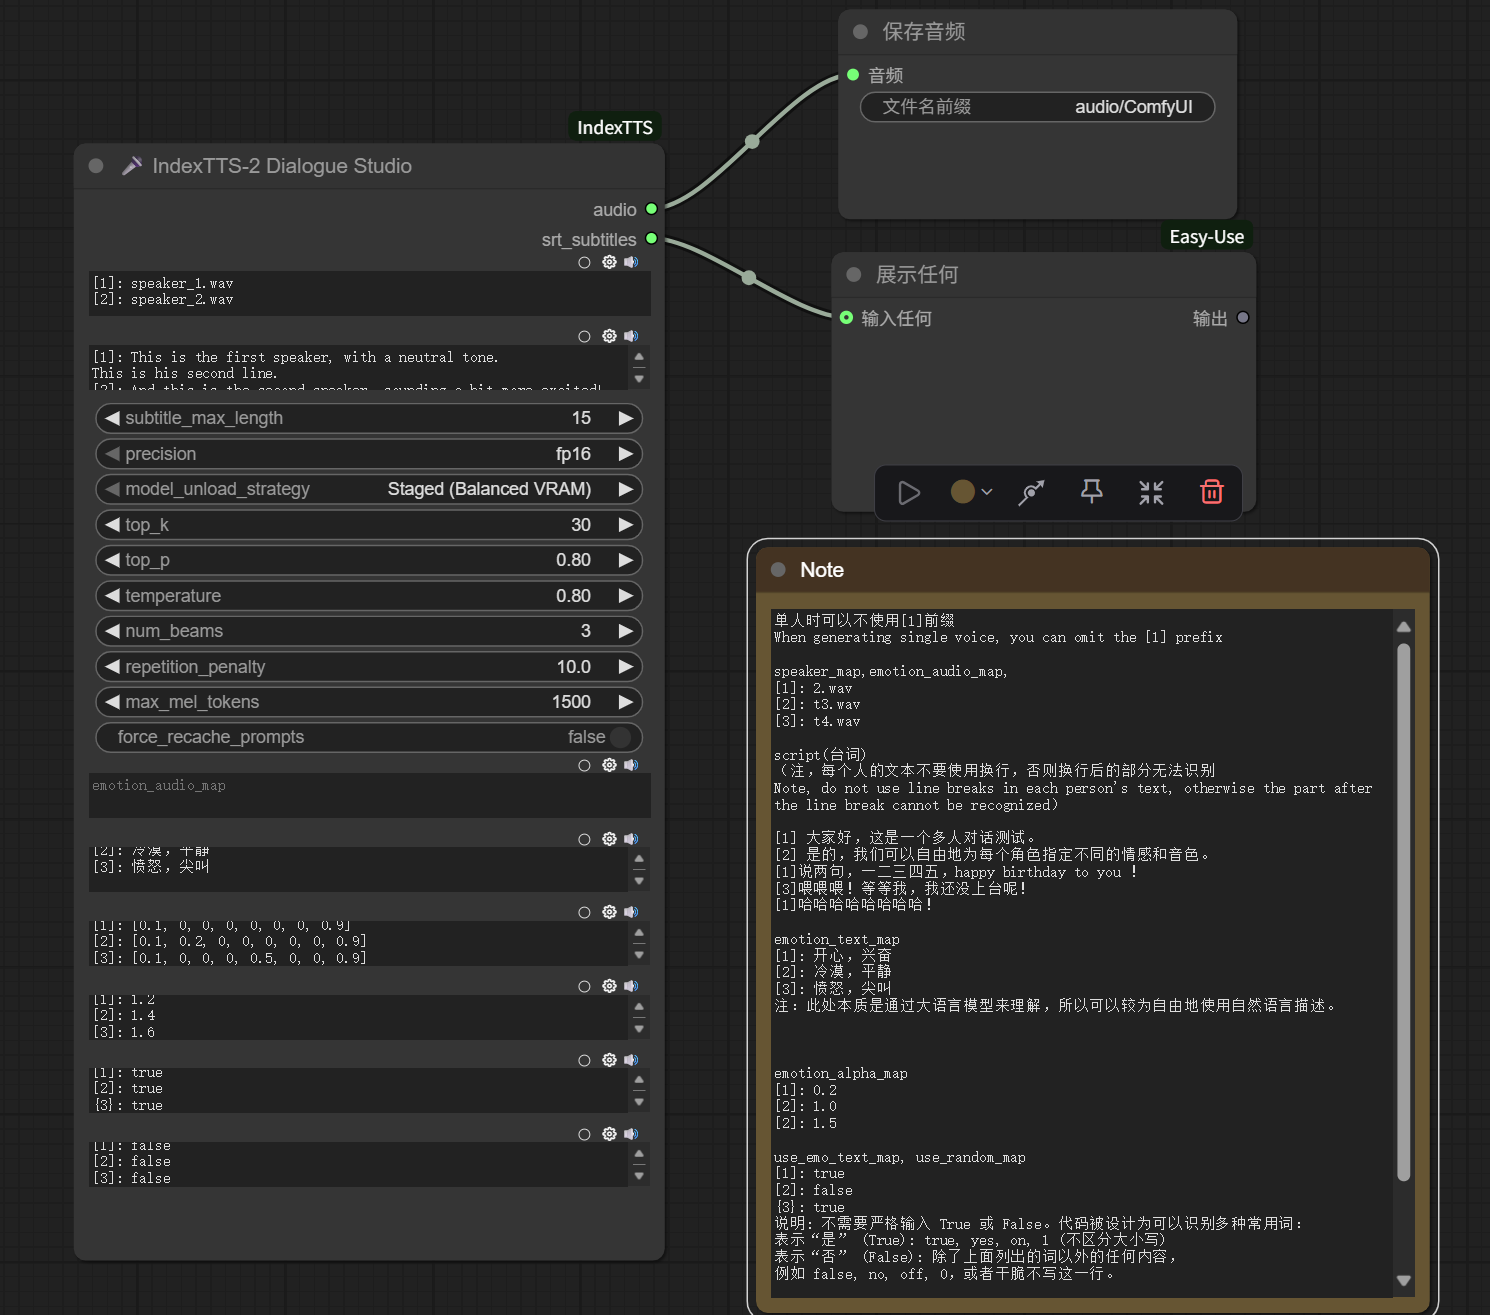
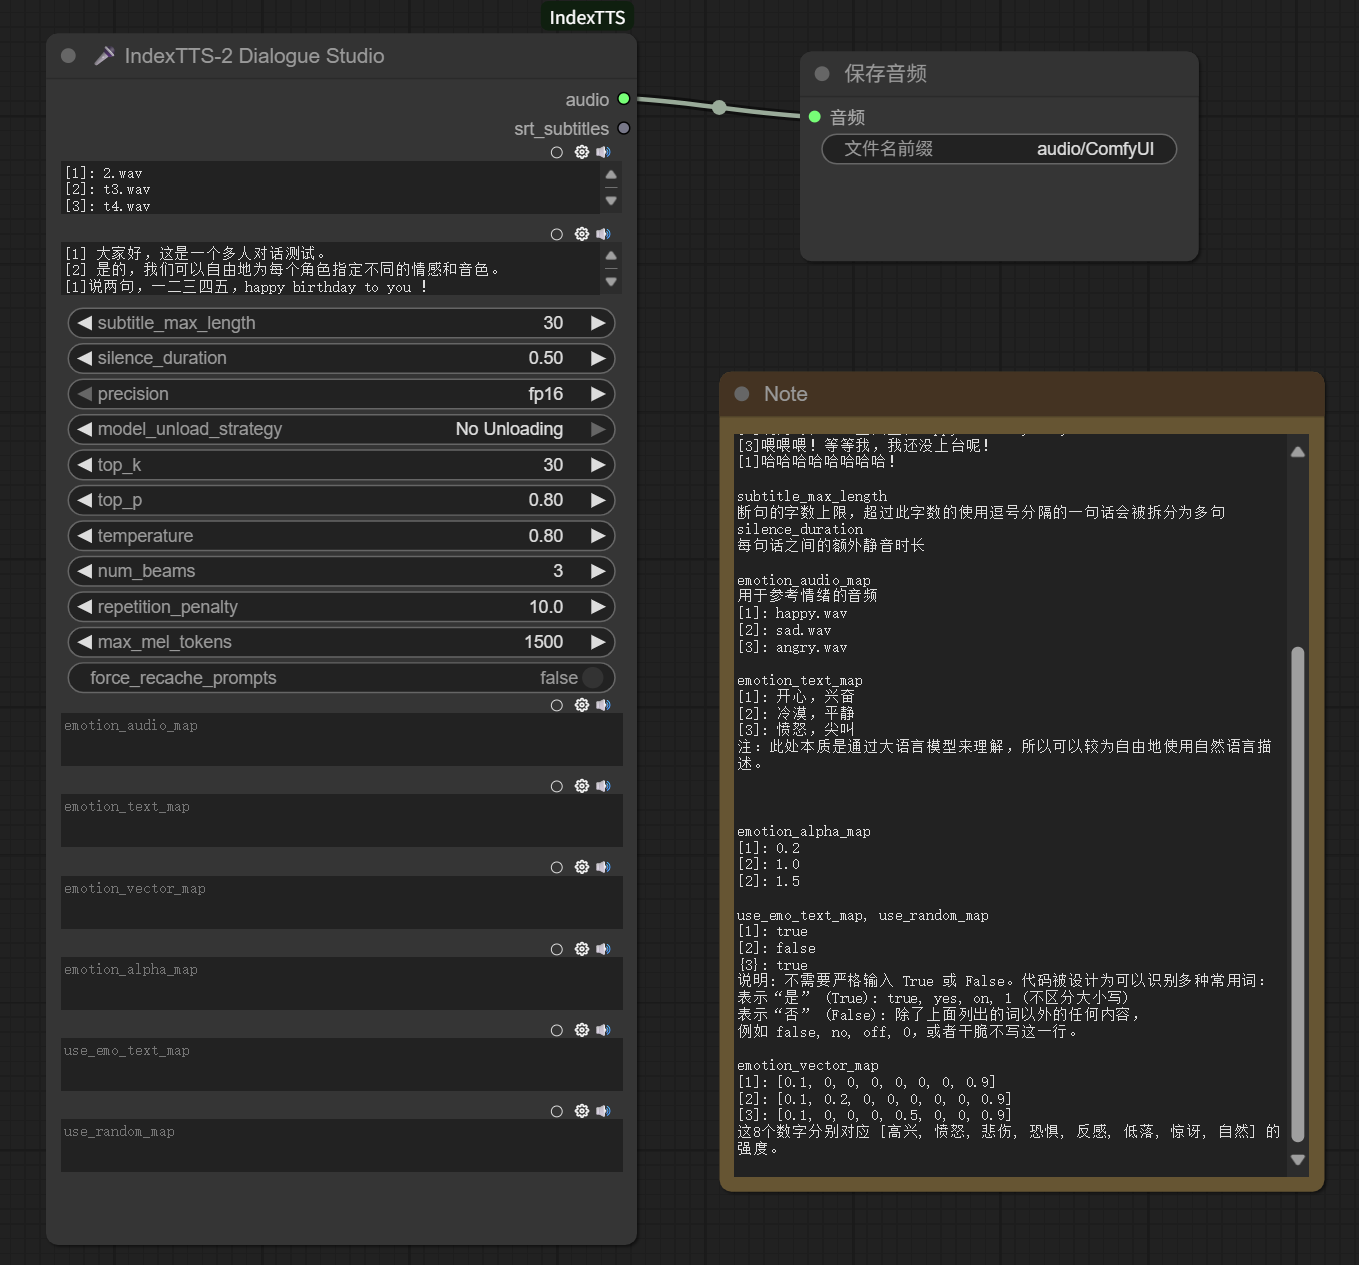
add silence duration

diff --git a/nodes.py b/nodes.py
@@ -15,16 +15,23 @@ class IndexTTS2_Dialogue_Studio:
         return {
             "required": {
                 "speaker_map": ("STRING", {
-                    "multiline": True, "default": "[1]: speaker_1.wav\n[2]: speaker_2.wav",
-                    "tooltip": "说话人映射表 (Speaker Map)\n将说话人ID映射到 `models/TTS/speakers/`中的音频文件 (Maps speaker IDs to audio files in `models/TTS/speakers/).\n格式 (Format): `[ID]: filename.wav` 每行一个 (one per line).\n单人生成时可省略 `[1]:` (For single speaker, `[1]:` is optional)."
+                    "multiline": True, "default": "[1]: speaker_1.wav",
+                    "tooltip": "说话人映射表 (Speaker Map)\n将说话人ID映射到 `models/TTS/speakers/`中的音频文件。(Maps speaker IDs to audio files in `models/TTS/speakers/`)."
                 }),
                 "script": ("STRING", {
-                    "multiline": True, "default": "[1]: This is the first speaker, with a neutral tone.\nThis is his second line.\n[2]: And this is the second speaker, sounding a bit more excited!",
-                    "tooltip": "对话脚本 (Script)\n支持单个角色多行文本，换行符会强制作为字幕切分点。(Multi-line text for a single speaker is supported. Newlines will force subtitle breaks.)\n格式 (Format): `[ID] Text content`"
+                    "multiline": True, "default": "[1]: This is a test sentence.\nThis is a second line for the same speaker.",
+                    "tooltip": "对话脚本 (Script)\n支持单个角色多行文本，换行符会强制作为字幕切分点。(Multi-line text for a single speaker is supported. Newlines will force subtitle breaks.)"
                 }),
                 "subtitle_max_length": ("INT", {
-                    "default": 15, "min": 5, "max": 100,
+                    "default": 30, "min": 5, "max": 100,
                     "tooltip": "字幕单行最大长度 (Subtitle Max Length)\n用于智能断句。中文字符计为1，英文单词计为1。(For smart splitting. A Chinese char counts as 1, an English word counts as 1.)"
+                }),
+                "silence_duration": ("FLOAT", {
+                    "default": 0.5, 
+                    "min": 0.0, 
+                    "max": 5.0, 
+                    "step": 0.05,
+                    "tooltip": "句间静音时长(秒)\n在每两段生成的音频之间插入指定时长的静音。(Silence duration in seconds between each generated audio clip.)"
                 }),
                 "precision": (["fp16", "fp32"], {"default": "fp16"}),
                 "model_unload_strategy": (["Staged (Balanced VRAM)", "Ultimate (Lowest VRAM)", "No Unloading"], {
@@ -39,7 +46,6 @@ class IndexTTS2_Dialogue_Studio:
                 "max_mel_tokens": ("INT", {"default": 1500, "min": 100}),
                 "force_recache_prompts": ("BOOLEAN", {"default": False}),
             },
-            # (Optional inputs remain the same)
             "optional": {
                 "emotion_audio_map": ("STRING", {"multiline": True, "default": ""}),
                 "emotion_text_map": ("STRING", {"multiline": True, "default": ""}),
@@ -55,7 +61,6 @@ class IndexTTS2_Dialogue_Studio:
     FUNCTION = "generate_dialogue"
     CATEGORY = "🎤MW/MW-IndexTTS"
 
-    # --- 辅助函数 (SRT字幕生成与智能断句) ---
     def _get_mixed_length(self, text):
         han_count = len(re.findall(r'[\u4e00-\u9fa5]', text))
         word_count = len(re.findall(r'\b[a-zA-Z]+\b', text))
@@ -79,36 +84,24 @@ class IndexTTS2_Dialogue_Studio:
 
     def _split_text_for_srt(self, text, max_len=15):
         if not text.strip(): return []
-        
         lines = text.split('\n')
         all_chunks = []
-
         for line in lines:
             if not line.strip(): continue
-            
-            # --- 修正后的合并逻辑 ---
-            # 目标：贪婪地合并短句，直到合并后的长句超过max_len，然后将这个完整的长句作为一个整体处理
             parts = re.split(r'([.?!。？！])', line)
             sentences = ["".join(i).strip() for i in zip(parts[0::2], parts[1::2])]
             if len(parts[0::2]) > len(parts[1::2]):
                 sentences.append(parts[-1].strip())
             sentences = [s for s in sentences if s]
-
             if not sentences: continue
-
             temp_chunk = sentences[0]
             for i in range(1, len(sentences)):
-                # 如果当前块加上下一个句子，总长度依然可接受，则合并
                 if self._get_mixed_length(temp_chunk + " " + sentences[i]) <= max_len:
                     temp_chunk += " " + sentences[i]
                 else:
-                    # 否则，处理当前已合并的块，然后用下一个句子开始新块
                     all_chunks.extend(self._split_long_sentence(temp_chunk, max_len))
                     temp_chunk = sentences[i]
-            
-            # 处理最后一个块
             all_chunks.extend(self._split_long_sentence(temp_chunk, max_len))
-
         return all_chunks
 
     def _format_srt_time(self, seconds):
@@ -127,31 +120,31 @@ class IndexTTS2_Dialogue_Studio:
             text = data['text']
             srt_content.append(f"{index}\n{start_time_str} --> {end_time_str}\n{text}\n")
         return "\n".join(srt_content)
-    
-    # --- 现有辅助函数 ---
+
     def _preprocess_input(self, text_input, is_script=False):
         text_input = text_input.strip()
         if not text_input: return ""
         if not is_script and re.search(r'^\s*\[\d+\]', text_input, re.MULTILINE): return text_input
         lines = text_input.split('\n')
-        # For script, we only add prefix if no prefix exists at all, to support multi-line
         if is_script and any(re.match(r'^\s*\[\d+\]', line) for line in lines):
              return text_input
         formatter = "[1] {}" if is_script else "[1]: {}"
         processed_lines = [formatter.format(line.strip()) for line in lines if line.strip()]
         return '\n'.join(processed_lines)
 
-    def get_emo_params_for_sid(self, sid, emo_maps):
-        # (This function remains the same)
-        params = {"emo_text": emo_maps["emotion_text_map"].get(sid), "emo_alpha": emo_maps["emotion_alpha_map"].get(sid, 1.0), "use_emo_text": emo_maps["use_emo_text_map"].get(sid, False), "use_random": emo_maps["use_random_map"].get(sid, False)}
-        if sid in emo_maps["emotion_audio_map"]: params["emo_audio_prompt_path"] = os.path.join(utils.speakers_dir, emo_maps["emotion_audio_map"][sid]) 
-        else: params["emo_audio_prompt_path"] = None
-        try: params["emo_vector"] = ast.literal_eval(emo_maps["emotion_vector_map"][sid]) if sid in emo_maps["emotion_vector_map"] else None
-        except: params["emo_vector"] = None
-        return params
+    def _check_all_prompts_cached(self, speaker_map_text):
+        speaker_map = utils.parse_key_value_map(speaker_map_text)
+        if not speaker_map: return True
+        for sid, filename in speaker_map.items():
+            cache_name = os.path.splitext(os.path.basename(filename))[0] + ".pkl"
+            cache_path = os.path.join(utils.TTS_CACHE_DIR, cache_name)
+            if not os.path.exists(cache_path):
+                print(f"    [DEBUG] Pre-check failed: Cache not found for '{filename}'.")
+                return False
+        print("    [DEBUG] Pre-check successful: All speaker prompts are cached.")
+        return True
 
     def _prepare_prompts(self, p, speaker_map_text, force_recache, skip_model_load=False):
-        # (This function remains the same)
         if not skip_model_load: p.load_prompt_models()
         speaker_map = utils.parse_key_value_map(speaker_map_text)
         if not speaker_map: raise ValueError("Speaker map is empty or invalid.")
@@ -168,15 +161,40 @@ class IndexTTS2_Dialogue_Studio:
             utils.save_cache(prompt_data, cache_path)
             prompts[sid] = prompt_data
         return prompts
-        
-    def generate_dialogue(self, speaker_map, script, subtitle_max_length, precision, model_unload_strategy, **kwargs):
+
+    def get_emo_params_for_sid(self, sid, emo_maps):
+        params = {"emo_text": emo_maps["emotion_text_map"].get(sid), "emo_alpha": emo_maps["emotion_alpha_map"].get(sid, 1.0), "use_emo_text": emo_maps["use_emo_text_map"].get(sid, False), "use_random": emo_maps["use_random_map"].get(sid, False)}
+        if sid in emo_maps["emotion_audio_map"]: params["emo_audio_prompt_path"] = os.path.join(utils.speakers_dir, emo_maps["emotion_audio_map"][sid]) 
+        else: params["emo_audio_prompt_path"] = None
+        try: params["emo_vector"] = ast.literal_eval(emo_maps["emotion_vector_map"][sid]) if sid in emo_maps["emotion_vector_map"] else None
+        except: params["emo_vector"] = None
+        return params
+
+    def _process_decoding_and_srt(self, p, item, original_text, subtitle_max_length):
+        wav = p.decode_latents(item["speaker_prompt"], item["latents_data"])
+        total_duration = wav.shape[1] / 22050.0
+        sub_texts = self._split_text_for_srt(original_text, subtitle_max_length)
+        sub_srt_data = []
+        if not sub_texts: return wav, sub_srt_data
+        total_text_length = sum(self._get_mixed_length(t) for t in sub_texts)
+        if total_text_length == 0: total_text_length = 1
+        local_cumulative_duration = 0.0
+        for sub_text in sub_texts:
+            sub_len = self._get_mixed_length(sub_text)
+            sub_duration = total_duration * (sub_len / total_text_length)
+            start_time_sec = local_cumulative_duration
+            end_time_sec = local_cumulative_duration + sub_duration
+            sub_srt_data.append({'start': start_time_sec, 'end': end_time_sec, 'text': sub_text})
+            local_cumulative_duration = end_time_sec
+        return wav, sub_srt_data
+
+    def generate_dialogue(self, speaker_map, script, subtitle_max_length, silence_duration, precision, model_unload_strategy, **kwargs):
         start_time = time.time()
         print(f"\n[IndexTTS2_NODE] Execution started with strategy: {model_unload_strategy}")
         
         speaker_map = self._preprocess_input(speaker_map, is_script=False)
         script_with_prefix = self._preprocess_input(script, is_script=True)
 
-        # --- 修正：实现全新的多行脚本预处理器 ---
         script_lines_for_parsing = []
         current_id, current_text = None, []
         for line in script_with_prefix.strip().split('\n'):
@@ -189,11 +207,8 @@ class IndexTTS2_Dialogue_Studio:
                 current_text.append(line)
         if current_id is not None:
             script_lines_for_parsing.append(f"[{current_id}] {'\n'.join(current_text)}")
-        
         final_script_to_parse = "\n".join(script_lines_for_parsing)
-        # --- 预处理结束 ---
 
-        # (The rest of the function remains largely the same, but uses `final_script_to_parse`)
         generation_params = {k: kwargs[k] for k in ["top_k", "top_p", "temperature", "num_beams", "max_mel_tokens", "repetition_penalty"]}
         emo_maps = {
             "emotion_audio_map": utils.parse_key_value_map(kwargs.get("emotion_audio_map", "")),
@@ -210,40 +225,85 @@ class IndexTTS2_Dialogue_Studio:
             pipeline.PIPELINE_CACHE = pipeline.IndexTTS2_Pipeline(precision=precision)
         p = pipeline.PIPELINE_CACHE
 
-        script_lines = utils.parse_script(final_script_to_parse) # 使用新处理的脚本
+        script_lines = utils.parse_script(final_script_to_parse)
         if not script_lines: raise ValueError("Script is empty or invalid.")
         
         waveforms, srt_data, cumulative_duration = [], [], 0.0
-        
-        # (Model loading and latent generation logic remains the same)
-        speaker_prompts = self._prepare_prompts(p, speaker_map, force_recache)
-        p.load_generation_models()
-        
+        all_cached = not force_recache and self._check_all_prompts_cached(speaker_map)
+
+        if model_unload_strategy == "No Unloading":
+            if not all_cached: p.load_prompt_models()
+            p.load_generation_models()
+            p.load_decoding_models()
+            speaker_prompts = self._prepare_prompts(p, speaker_map, force_recache, skip_model_load=True)
+        else:
+            speaker_prompts = self._prepare_prompts(p, speaker_map, force_recache, skip_model_load=all_cached)
+            if model_unload_strategy == "Ultimate (Lowest VRAM)" and not all_cached:
+                p.unload_prompt_models()
+            p.load_generation_models()
+
         latents_cache = []
         for i, line in enumerate(script_lines):
             sid, text = line['id'], line['text']
             if sid not in speaker_prompts: raise ValueError(f"Speaker ID [{sid}] not in speaker_map.")
+            print(f"\n[IndexTTS2_NODE] --- Preparing line {i+1}/{len(script_lines)} for speaker [{sid}] ---")
             emo_params = self.get_emo_params_for_sid(sid, emo_maps)
             all_latents_data = p.generate_latents(speaker_prompts[sid], text, emo_params, generation_params)
             latents_cache.append({"latents_data": all_latents_data, "speaker_prompt": speaker_prompts[sid]})
 
-        p.load_decoding_models()
-        for i, item in enumerate(latents_cache):
-            wav, sub_srt_data = self._process_decoding_and_srt(p, item, script_lines[i]['text'], subtitle_max_length)
-            waveforms.append(wav)
-            current_line_duration = wav.shape[1] / 22050.0
-            for data in sub_srt_data:
-                data['start'] += cumulative_duration
-                data['end'] += cumulative_duration
-                srt_data.append(data)
-            cumulative_duration += current_line_duration
-        
-        # (Cleanup logic for different strategies would go here if needed, simplified for clarity)
-        if model_unload_strategy != "No Unloading":
+        decoding_logic = (lambda i, item: 
+            self._process_decoding_and_srt(p, item, script_lines[i]['text'], subtitle_max_length)
+        )
+
+        if model_unload_strategy == "No Unloading":
+            print("[IndexTTS2_NODE] Decoding all waveforms...")
+            for i, item in enumerate(latents_cache):
+                wav, sub_srt_data = decoding_logic(i, item)
+                waveforms.append(wav)
+                current_line_duration = wav.shape[1] / 22050.0
+                for data in sub_srt_data:
+                    data['start'] += cumulative_duration
+                    data['end'] += cumulative_duration
+                    srt_data.append(data)
+                
+                cumulative_duration += current_line_duration
+                if silence_duration > 0 and i < len(latents_cache) - 1:
+                    cumulative_duration += silence_duration
+        else:
+            if model_unload_strategy == "Ultimate (Lowest VRAM)": p.unload_generation_models()
+            print("\n[IndexTTS2_NODE] --- STAGE C: WAVEFORM DECODING ---")
+            p.load_decoding_models()
+            for i, item in enumerate(latents_cache):
+                print(f"[IndexTTS2_NODE] Decoding waveform {i+1}/{len(latents_cache)}...")
+                wav, sub_srt_data = decoding_logic(i, item)
+                waveforms.append(wav)
+                current_line_duration = wav.shape[1] / 22050.0
+                for data in sub_srt_data:
+                    data['start'] += cumulative_duration
+                    data['end'] += cumulative_duration
+                    srt_data.append(data)
+
+                cumulative_duration += current_line_duration
+                if silence_duration > 0 and i < len(latents_cache) - 1:
+                    cumulative_duration += silence_duration
+            
+            print("\n[IndexTTS2_NODE] --- FINAL CLEANUP ---")
             p.unload_all_models()
             pipeline.PIPELINE_CACHE = None
 
-        final_waveform = torch.cat(waveforms, dim=1) if waveforms else torch.zeros((1,1))
+        if silence_duration > 0 and len(waveforms) > 1:
+            sample_rate = 22050
+            num_silent_samples = int(sample_rate * silence_duration)
+            silent_wav = torch.zeros((1, num_silent_samples), device='cpu')
+            waveforms_with_silence = []
+            for i, wav in enumerate(waveforms):
+                waveforms_with_silence.append(wav)
+                if i < len(waveforms) - 1:
+                    waveforms_with_silence.append(silent_wav)
+            final_waveform = torch.cat(waveforms_with_silence, dim=1)
+        else:
+            final_waveform = torch.cat(waveforms, dim=1) if waveforms else torch.zeros((1, 1))
+
         srt_output = self._generate_srt(srt_data)
         
         end_time = time.time()
